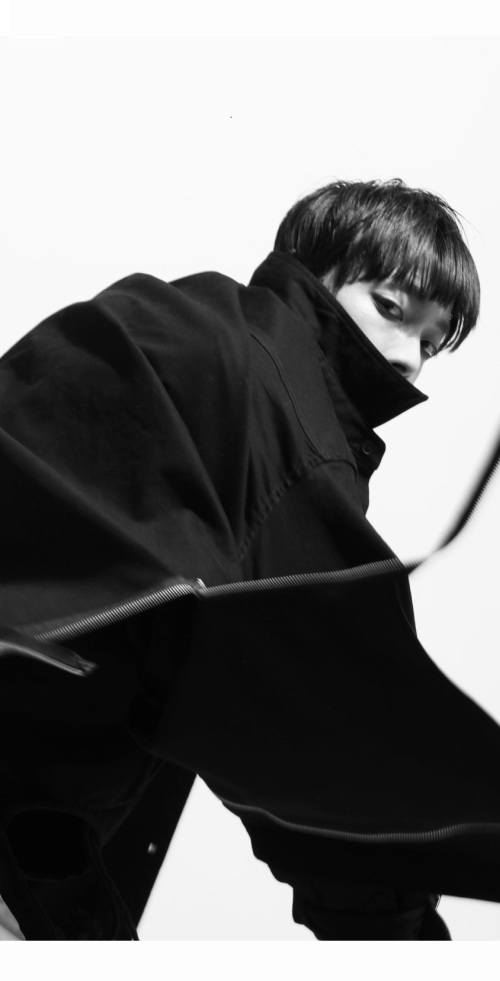
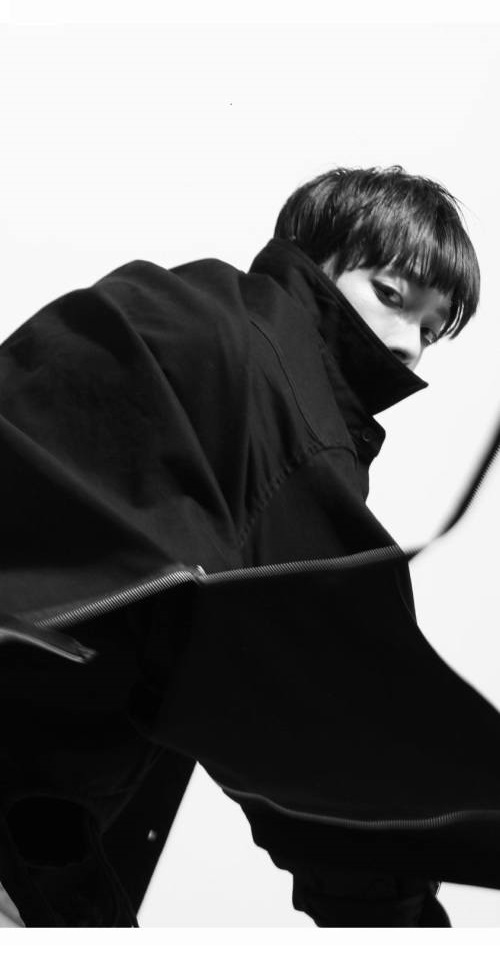
fix

diff --git a/index.html b/index.html
@@ -635,7 +635,8 @@
 							<!-- PORTFOLIO ITEM -->
 							<div class="work-item tall">
 								<a class="test-popup-link" href="./portfolio/Cordinate/full/25.jpg" title="2018 - 「Coordinate」">
-									<img class="appear fullsize" data-src="./portfolio/Cordinate/25.jpg" src="./portfolio/Cordinate/25.jpg" alt="">
+									<img class="appear fullsize full" data-src="./portfolio/Cordinate/25.jpg" src="./portfolio/Cordinate/25.jpg" alt="">
+									<img class="appear fullsize mobile" data-src="./portfolio/Cordinate/min/25.jpg" src="./portfolio/Cordinate/min/25.jpg" alt="">
 									<div class="work-caption font-alt">
 										<h3 class="work-title">2018 - 「Coordinate」</h3>
 									</div>
@@ -979,7 +980,7 @@
 			<!-- ABOUTTITLE -->
 
 			<section class="module" style="padding-bottom: 25px;background-color: var(--b3f, #fafafa); border-top-color: rgba(0, 0, 0, 0.02);border-top-style: solid;border-top-width: 1px; border-bottom-color: rgba(0, 0, 0, 0.02);border-bottom-style: solid;border-bottom-width: 1px; z-index: 4;">
-				<div class="container" style="max-width: 300px;">
+				<div class="container" style="max-width: 310px;">
 					<div class="main-carousel" data-flickity='{ "cellAlign": "left", "contain": true }'>
 						<div id="aboutiris" class="carousel-cell is-initial-select">
 							<div class="aboutpopup" style="position: relative; width: 280px;height: 280px;	margin: auto;">
